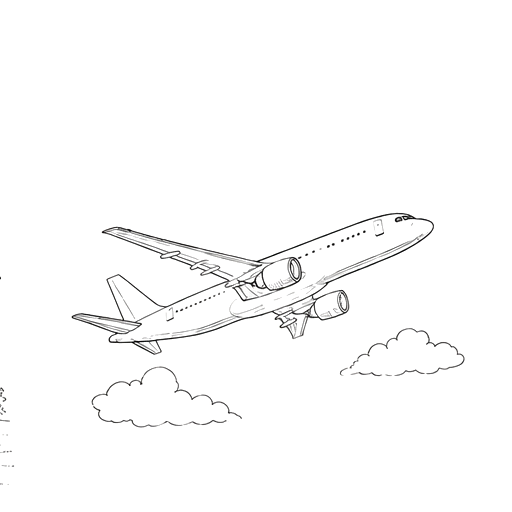
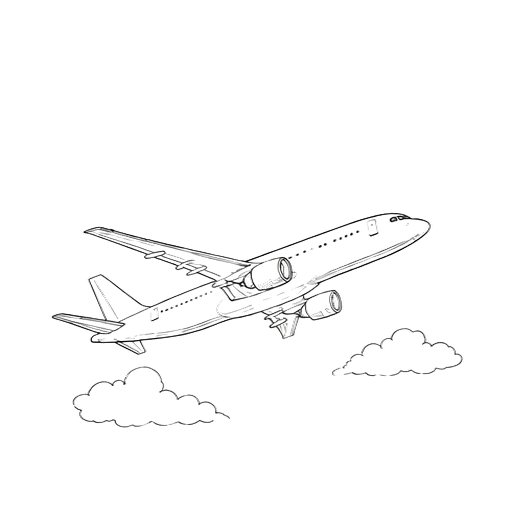
Add files via upload

diff --git a/css/style.css b/css/style.css
@@ -381,7 +381,7 @@ em { font-style: italic; color: var(--brown); }
 .timeline-date {
   font-family: 'Cormorant Garamond', serif;
   font-size: 16px;
-  color: var(--gold);
+  color: var(--brown);
   text-align: right;
 }
 .timeline-title { font-family: 'Cormorant Garamond', serif; font-size: 30px; font-weight: 400; margin: 0; }
@@ -481,7 +481,7 @@ em { font-style: italic; color: var(--brown); }
 .stay-section { padding: 100px 64px 40px; max-width: 1080px; margin: 0 auto; }
 .stay-lede { margin-bottom: 64px; max-width: none; }
 .stay-sub-eyebrow {
-  font-size: 10px; letter-spacing: 0.16em; text-transform: uppercase; color: var(--gold); margin-bottom: 16px;
+  font-size: 10px; letter-spacing: 0.16em; text-transform: uppercase; color: var(--brown); margin-bottom: 16px;
 }
 
 .host-hotel {
@@ -499,6 +499,7 @@ em { font-style: italic; color: var(--brown); }
 .host-hotel p { font-size: 13px; line-height: 1.8; color: var(--espresso); white-space: pre-line; margin: 0 0 20px; }
 .host-hotel-link {
   font-size: 11px; letter-spacing: 0.14em; text-transform: uppercase; text-decoration: none;
+  color: var(--gold-dark);
   border-bottom: 1px solid var(--gold); padding-bottom: 2px;
 }
 
@@ -509,7 +510,7 @@ em { font-style: italic; color: var(--brown); }
 .hotel-card { background: var(--linen); padding: 26px; }
 .hotel-name { font-family: 'Cormorant Garamond', serif; font-size: 20px; color: var(--espresso); margin-bottom: 10px; }
 .hotel-card p { font-size: 13px; line-height: 1.75; color: var(--brown); margin: 0 0 14px; }
-.hotel-link { font-size: 11px; letter-spacing: 0.1em; text-transform: uppercase; text-decoration: none; }
+.hotel-link { font-size: 11px; letter-spacing: 0.1em; text-transform: uppercase; text-decoration: none; color: var(--gold-dark); }
 
 .subheading { font-size: 22px; margin: 0 0 20px; }
 .subheading-note { font-size: 13px; color: var(--brown); margin: 0 0 20px; }

diff --git a/weekend.html b/weekend.html
@@ -7,7 +7,7 @@
 <link rel="preconnect" href="https://fonts.googleapis.com">
 <link rel="preconnect" href="https://fonts.gstatic.com" crossorigin>
 <link href="https://fonts.googleapis.com/css2?family=Cormorant+Garamond:ital,wght@0,300;0,400;0,500;0,600;1,300;1,400;1,500&family=Jost:wght@200;300;400;500&display=swap" rel="stylesheet">
-<link rel="stylesheet" href="css/style.css?v=10">
+<link rel="stylesheet" href="css/style.css?v=13">
 </head>
 <body>
 
@@ -76,7 +76,7 @@ With loved ones traveling from all over, we&rsquo;re turning our wedding into a 
           <p class="timeline-note">For the Ashleys among us, the ceremony starts at 4:30 PM. :)</p>
           <p class="timeline-reception">Dinner, drinks, and dancing will follow.</p>
         </div>
-        <img class="timeline-doodle" src="assets/weekend-doodle-tile.png" alt="The Wedding">
+        <img class="timeline-doodle" src="assets/weekend-doodle-tile.png" alt="The Wedding" style="width:380px;height:380px;">
       </div>
     </div>
   </div>

diff --git a/index.html b/index.html
@@ -3,11 +3,11 @@
 <head>
 <meta charset="UTF-8">
 <meta name="viewport" content="width=device-width, initial-scale=1.0">
-<title>Ashley &amp; Eli — May 21, 2027, Sonoma, California</title>
+<title>Ashley &amp; Eli Are Getting Married!</title>
 <link rel="preconnect" href="https://fonts.googleapis.com">
 <link rel="preconnect" href="https://fonts.gstatic.com" crossorigin>
 <link href="https://fonts.googleapis.com/css2?family=Cormorant+Garamond:ital,wght@0,300;0,400;0,500;0,600;1,300;1,400;1,500&family=Jost:wght@200;300;400;500&display=swap" rel="stylesheet">
-<link rel="stylesheet" href="css/style.css?v=10">
+<link rel="stylesheet" href="css/style.css?v=13">
 </head>
 <body>
 

diff --git a/explore.html b/explore.html
@@ -7,7 +7,7 @@
 <link rel="preconnect" href="https://fonts.googleapis.com">
 <link rel="preconnect" href="https://fonts.gstatic.com" crossorigin>
 <link href="https://fonts.googleapis.com/css2?family=Cormorant+Garamond:ital,wght@0,300;0,400;0,500;0,600;1,300;1,400;1,500&family=Jost:wght@200;300;400;500&display=swap" rel="stylesheet">
-<link rel="stylesheet" href="css/style.css?v=12">
+<link rel="stylesheet" href="css/style.css?v=13">
 <script src="image-slot.js"></script>
 </head>
 <body>

diff --git a/faq.html b/faq.html
@@ -7,7 +7,7 @@
 <link rel="preconnect" href="https://fonts.googleapis.com">
 <link rel="preconnect" href="https://fonts.gstatic.com" crossorigin>
 <link href="https://fonts.googleapis.com/css2?family=Cormorant+Garamond:ital,wght@0,300;0,400;0,500;0,600;1,300;1,400;1,500&family=Jost:wght@200;300;400;500&display=swap" rel="stylesheet">
-<link rel="stylesheet" href="css/style.css?v=10">
+<link rel="stylesheet" href="css/style.css?v=13">
 </head>
 <body>
 

diff --git a/gallery.html b/gallery.html
@@ -7,7 +7,7 @@
 <link rel="preconnect" href="https://fonts.googleapis.com">
 <link rel="preconnect" href="https://fonts.gstatic.com" crossorigin>
 <link href="https://fonts.googleapis.com/css2?family=Cormorant+Garamond:ital,wght@0,300;0,400;0,500;0,600;1,300;1,400;1,500&family=Jost:wght@200;300;400;500&display=swap" rel="stylesheet">
-<link rel="stylesheet" href="css/style.css?v=10">
+<link rel="stylesheet" href="css/style.css?v=13">
 </head>
 <body>
 

diff --git a/registry.html b/registry.html
@@ -7,7 +7,7 @@
 <link rel="preconnect" href="https://fonts.googleapis.com">
 <link rel="preconnect" href="https://fonts.gstatic.com" crossorigin>
 <link href="https://fonts.googleapis.com/css2?family=Cormorant+Garamond:ital,wght@0,300;0,400;0,500;0,600;1,300;1,400;1,500&family=Jost:wght@200;300;400;500&display=swap" rel="stylesheet">
-<link rel="stylesheet" href="css/style.css?v=10">
+<link rel="stylesheet" href="css/style.css?v=13">
 </head>
 <body>
 

diff --git a/rsvp.html b/rsvp.html
@@ -7,7 +7,7 @@
 <link rel="preconnect" href="https://fonts.googleapis.com">
 <link rel="preconnect" href="https://fonts.gstatic.com" crossorigin>
 <link href="https://fonts.googleapis.com/css2?family=Cormorant+Garamond:ital,wght@0,300;0,400;0,500;0,600;1,300;1,400;1,500&family=Jost:wght@200;300;400;500&display=swap" rel="stylesheet">
-<link rel="stylesheet" href="css/style.css?v=10">
+<link rel="stylesheet" href="css/style.css?v=13">
 </head>
 <body>
 

diff --git a/stay.html b/stay.html
@@ -7,7 +7,7 @@
 <link rel="preconnect" href="https://fonts.googleapis.com">
 <link rel="preconnect" href="https://fonts.gstatic.com" crossorigin>
 <link href="https://fonts.googleapis.com/css2?family=Cormorant+Garamond:ital,wght@0,300;0,400;0,500;0,600;1,300;1,400;1,500&family=Jost:wght@200;300;400;500&display=swap" rel="stylesheet">
-<link rel="stylesheet" href="css/style.css?v=10">
+<link rel="stylesheet" href="css/style.css?v=13">
 </head>
 <body>
 

diff --git a/story.html b/story.html
@@ -7,7 +7,7 @@
 <link rel="preconnect" href="https://fonts.googleapis.com">
 <link rel="preconnect" href="https://fonts.gstatic.com" crossorigin>
 <link href="https://fonts.googleapis.com/css2?family=Cormorant+Garamond:ital,wght@0,300;0,400;0,500;0,600;1,300;1,400;1,500&family=Jost:wght@200;300;400;500&display=swap" rel="stylesheet">
-<link rel="stylesheet" href="css/style.css?v=10">
+<link rel="stylesheet" href="css/style.css?v=13">
 </head>
 <body>
 

diff --git a/travel.html b/travel.html
@@ -7,7 +7,7 @@
 <link rel="preconnect" href="https://fonts.googleapis.com">
 <link rel="preconnect" href="https://fonts.gstatic.com" crossorigin>
 <link href="https://fonts.googleapis.com/css2?family=Cormorant+Garamond:ital,wght@0,300;0,400;0,500;0,600;1,300;1,400;1,500&family=Jost:wght@200;300;400;500&display=swap" rel="stylesheet">
-<link rel="stylesheet" href="css/style.css?v=10">
+<link rel="stylesheet" href="css/style.css?v=13">
 </head>
 <body>
 

diff --git a/wear.html b/wear.html
@@ -7,7 +7,7 @@
 <link rel="preconnect" href="https://fonts.googleapis.com">
 <link rel="preconnect" href="https://fonts.gstatic.com" crossorigin>
 <link href="https://fonts.googleapis.com/css2?family=Cormorant+Garamond:ital,wght@0,300;0,400;0,500;0,600;1,300;1,400;1,500&family=Jost:wght@200;300;400;500&display=swap" rel="stylesheet">
-<link rel="stylesheet" href="css/style.css?v=10">
+<link rel="stylesheet" href="css/style.css?v=13">
 </head>
 <body>
 
